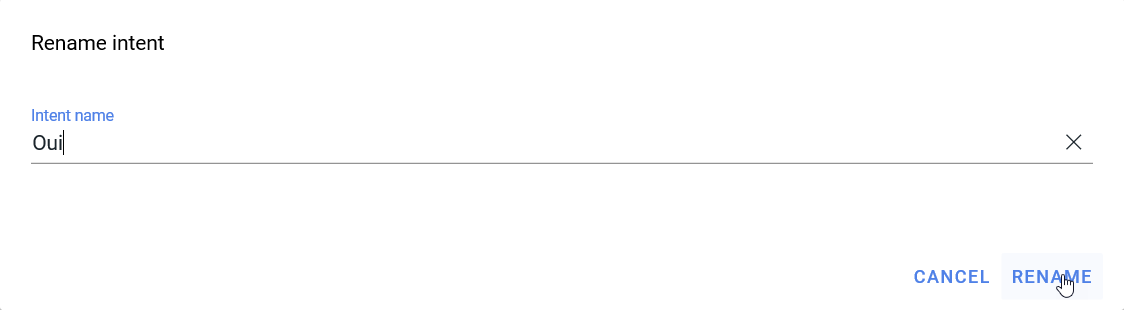
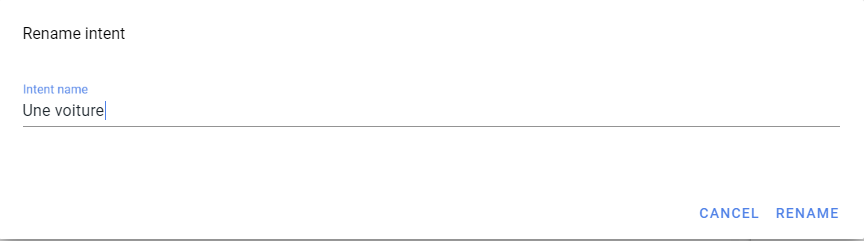
Changed Pizza! to car rental french version

diff --git a/_parametering_examples/fr/fr4.md b/_parametering_examples/fr/fr4.md
@@ -32,7 +32,7 @@ On inscrit dans l'intent les lignes suivantes :
     Bonjour <br> bjr <br>
   {% endEntry %}
   {% Entry type: "Output" %}  
-    Voulez-vous une pizza sucrée? {% MaterialIcon icon: "category" %}{% Chip color: "red", label: "Oui" %}{% MaterialIcon icon: "category" %}{% Chip color: "red", label: "Non" %}{% MaterialIcon icon: "code" %}{% Chip color: "blue", label: "action=sweetyesno" %}
+    Voulez-vous louer une voiture ou un utilitaire? {% MaterialIcon icon: "category" %}{% Chip color: "red", label: "Une voiture" %}{% MaterialIcon icon: "category" %}{% Chip color: "red", label: "Un utiltiaire" %}{% MaterialIcon icon: "code" %}{% Chip color: "blue", label: "action=saisirtypevehicule" %}
   {% endEntry %}
 {% endOplaAppSample %}
 
@@ -41,22 +41,25 @@ On inscrit dans l'intent les lignes suivantes :
 ce qui donne à l'écran :
 
 
-![image]({{site.images_path | relative_url }}voulez-vous-une-pizza-sucree-total.png)
+![image]({{site.images_path | relative_url }}louer-voiture-ou-utilitaire.png)
 
 
 Il faut cliquer sur le signe plus de la ligne et cliquer sur SAVE pour sauvegarder la progression du paramétrage.
 
-![image]({{site.images_path | relative_url }}bonjour-output-sweetyesno-save1.png)
 
 Il faut ensuite cliquer sur "SAVE" en haut dans le cadre des intents
 
 ![image]({{site.images_path | relative_url }}bonjour-save.png)
 
 
-Le texte action = sweetyesno doit être recopié dans la conditionnelle suivante pour lier l'intent #Bonjour à l'intent #Oui suivant. On va suivre la branche des Oui pour enter les deux Outputs contenus dans l'intent #Oui sur la branche de gauche du schéma.
+Le texte action = saisirtypevehicule doit être recopié dans la conditionnelle suivante pour lier l'intent #Bonjour à l'intent suivant.
+
+En l'occurence, deux intents vont être définis ;
+  * #Une voiture
+  * #Un utilitaire
 
 
-Pour ajouter l'intent Oui, cliquer sur le signe plus gris/bleu à droite dans la colonne intents.
+Pour ajouter l'intent suivant, cliquer sur le signe plus gris/bleu à droite dans la colonne intents.
 
 ![image]({{site.images_path | relative_url }}add-an-intent.png)
 
@@ -68,45 +71,43 @@ Puis saisir le nouveau nom,
 
 ![image]({{site.images_path | relative_url }}rename-intent.png)
 
-Ensuite il faut entrer Oui dans la ligne d'inputs et supprimer les outputs éventuellement déjà présents en cliquant sur le moins sur leur ligne.
-
-![image]({{site.images_path | relative_url }}supprimer-outputs.png)
+Ensuite il faut entrer "Une voiture" dans la ligne d'inputs et supprimer les outputs éventuellement déjà présents en cliquant sur le moins sur leur ligne.
 
 
-Ensuite on va entrer le texte des outputs de l'intent Oui :<br>
+
+Ensuite on va entrer le texte des outputs de l'intent Une voiture :<br>
 
 
-{% OplaAppSample title: "Oui" %}
+{% OplaAppSample title: "Une voiture" %}
   {% Entry type : "Input" %}
-    oui
+    Une voiture
   {% endEntry %}
   {% Entry type: "Output" %}  
-  {% Action label: "sweetyesno" %} 
-    Est-ce que vous voulez des pommes? {% MaterialIcon icon: "category" %}{% Chip color: "red", label: "Oui" %}{% MaterialIcon icon: "category" %}{% Chip color: "red", label: "Non" %}{% MaterialIcon icon: "code" %}{% Chip color: "blue", label: "action=pommesyesno" %}
+  {% Action label: "saisirtypevehicule" %} 
+    Sa longueur doit-elle être supérieure à 4m? {% MaterialIcon icon: "category" %}{% Chip color: "red", label: "Oui" %}{% MaterialIcon icon: "category" %}{% Chip color: "red", label: "Non" %}{% MaterialIcon icon: "code" %}{% Chip color: "blue", label: "action=longueursup4mouinon" %}
   {% endEntry %}
 {% endOplaAppSample %}
 
 
 
-![image]({{site.images_path | relative_url }}pommesyesno.png)
 
-
-
-On entre le code action=sweetyesno en cliquant sur la conditionnelle
+On entre le code action=saisirtypevehicule en cliquant sur la conditionnelle
 
 ![image]({{site.images_path | relative_url }}insert-condition.png)
 
-![image]({{site.images_path | relative_url }}action-eg-sweetyesno.png)
-![image]({{site.images_path | relative_url }}pommesyesno-boite.png)
+![image]({{site.images_path | relative_url }}action_saisirtypevehicule.png)
+
 
 
 Ne pas oublier de cliquer sur le signe plus et sur SAVE à la fin de chaque modification d'intent
 
-![image]({{site.images_path | relative_url }}save-pommesyesno.png)
 
 
-Et pour le deuxième output, qui constitue la fin de la chaîne des "Oui"
 
+Et pour le deuxième output, qui constitue la fin de la chaîne ;
+
+
+On va créer un intent #Oui, avec pour input oui et qui aura pour outputs à la fin de cet exercice plusieurs possibilités, mais qui maintenant va contenir :
 
 
 {% OplaAppSample title: "Oui" %}
@@ -114,19 +115,21 @@ Et pour le deuxième output, qui constitue la fin de la chaîne des "Oui"
     oui
   {% endEntry %}
   {% Entry type: "Output" %}  
-  {% Action label: "pommesyesno" %} 
-    C'est parti pour une pizza pommes chocolat!
+  {% Action label: "longueursup4mouinon" %} 
+    Vous souhaitez louer un break
   {% endEntry %}
 {% endOplaAppSample %}
 
 
 
-    
-
-![image]({{site.images_path | relative_url }}pommes-chocolat.png)
 
 
 Après avoir cliqué sur SAVE, vous pouvez faire des tests dans le playground ainsi qu'indiqué sur les captures d'écrans, pour voir si vos enchaînements se passent bien.
 
 
-Félicitations, vous avez écrit votre première branche de schéma conversationnel! Maintenant nous allons rajouter le Non qui conduit à Pizza tout chocolat.
+
+
+
+
+
+Félicitations, vous avez écrit votre première branche de schéma conversationnel! Maintenant nous allons rajouter le Non qui conduit à "vous souhaitez louer une citadine."

diff --git a/_parametering_examples/fr/fr5.md b/_parametering_examples/fr/fr5.md
@@ -5,34 +5,33 @@ ref : 5
 permalink: /exemple_parametrages/step_5
 ---
 
-On va ensuite rajouter le premier Non qui conduit à Pizza tout chocolat :
+On va ensuite rajouter le premier Non qui conduit "Vous souhaitez louer une citadine" :
 
 {% OplaAppSample title: "Non" %}
   {% Entry type : "Input" %}
     non
   {% endEntry %}
   {% Entry type: "Output" %}  
-  {% Action label: "pommesyesno" %} 
-    C'est parti pour une pizza tout chocolat!
+  {% Action label: "longueursup4mouinon" %} 
+    Vous souhaitez louer une citadine.
   {% endEntry %}
 {% endOplaAppSample %}
 
 
 
- ![image]({{site.images_path | relative_url }}tout-chocolat.png)
 
 Ne pas oublier de cliquer sur SAVE avant d'essayer le schéma dans le playground.
 
 Puis nous allons rajouter la branche de droite,
 
 
-{% OplaAppSample title: "Non" %}
+{% OplaAppSample title: "Un utilitaire" %}
   {% Entry type : "Input" %}
-    non
+    Un utilitaire
   {% endEntry %}
   {% Entry type: "Output" %}  
-  {% Action label: "sweetyesno" %} 
-    Voulez-vous des champignons ?  {% MaterialIcon icon: "category" %}{% Chip color: "red", label: "Oui" %}{% MaterialIcon icon: "category" %}{% Chip color: "red", label: "Non" %}{% MaterialIcon icon: "code" %}{% Chip color: "blue", label: "action=mushroomsyesno" %}
+  {% Action label: "saisirtypevehicule" %} 
+    Son volume doit-il être supérieur à 10m3 ?  {% MaterialIcon icon: "category" %}{% Chip color: "red", label: "Oui" %}{% MaterialIcon icon: "category" %}{% Chip color: "red", label: "Non" %}{% MaterialIcon icon: "code" %}{% Chip color: "blue", label: "action=volumesup10m3ouinon" %}
   {% endEntry %}
 {% endOplaAppSample %}
 
@@ -43,8 +42,8 @@ Puis nous allons rajouter la branche de droite,
     oui
   {% endEntry %}
   {% Entry type: "Output" %}  
-  {% Action label: "mushroomsyesno" %} 
-    C'est parti pour une Reine !
+  {% Action label: "volumesup10m3ouinon" %} 
+    Vous souhaitez louer un fourgon.
   {% endEntry %}
 {% endOplaAppSample %}
 
@@ -55,10 +54,22 @@ Puis nous allons rajouter la branche de droite,
     non
   {% endEntry %}
   {% Entry type: "Output" %}  
-  {% Action label: "mushroomsyesno" %} 
-    C'est parti pour une trois fromages! 
+  {% Action label: "volumesup10m3ouinon" %} 
+    Vous souhaitez louer une fourgonnette. 
   {% endEntry %}
 {% endOplaAppSample %}
+
+
+
+
+## Vue générale de l'exercice dans le bot
+
+![image]({{site.images_path | relative_url }}location-voiture-Bonjour.png)
+![image]({{site.images_path | relative_url }}location-voiture-Une-voiture.png)
+![image]({{site.images_path | relative_url }}location-voiture-Un-utilitaire.png)
+![image]({{site.images_path | relative_url }}location-voiture-oui.png)
+![image]({{site.images_path | relative_url }}location-voiture-non.png)
+
 
 
 Et voilà,  votre premier schéma de conversation est paramétré ! Passons maintenant à un exemple suivant, l'exemple de la prise de contact, qui gère des saisies manuelles effectuées par l'utilisateur.

diff --git a/_parametering_examples/fr/fr7.md b/_parametering_examples/fr/fr7.md
@@ -5,11 +5,7 @@ ref : 7
 permalink: /exemple_parametrages/step_7
 ---
 
-On peut tout à fait, et c'est le cas ici, créer deux schémas de conversation dans le même bot. On va créer la conversation "Contact" parallèlement à la conversation "Pizza".
-
-*À noter : Un intent compte souvent un ou deux inputs pour plusieurs outputs différents.*
-
-
+Nous allons paramétrer un bot qui stocke les informations de deux questions : quel est votre numéro de téléphone? quel est votre e-mail? Tout en permettant d'effectuer des correctifs sur les deux valeurs.
 
 
 {% OplaAppSample title: "Contact" %}

diff --git a/_parametering_examples/fr/fr1.md b/_parametering_examples/fr/fr1.md
@@ -35,7 +35,7 @@ La syntaxe du code d'action à saisir sera, en écrivant à l'intérieur du cadr
 </div>
     3. Button :
 
-Permet de créer un bouton qui va être cliquable par l'utilisateur et qui donc va permettre de standadiser les inputs. On peut créer un bouton Oui, Non, ou n'importe quel input souhaité.
+Permet de créer un bouton qui va être cliquable par l'utilisateur et qui donc va permettre de standardiser les inputs. On peut créer un bouton Oui, Non, ou n'importe quel input souhaité.
 
 
 

diff --git a/_parametering_examples/en/en7.md b/_parametering_examples/en/en7.md
@@ -70,7 +70,7 @@ The mention @any in intent #Any is used to collect information not contained in 
 
 {% OplaAppSample title: "" %}
   {% Entry type: "Output" %} 
-   {% MaterialIcon icon: "code" %}{% Chip color: "blue", label: "valeur=*" %}
+   {% MaterialIcon icon: "code" %}{% Chip color: "blue", label: "value=*" %}
   {% endEntry %}
 {% endOplaAppSample %}
 

diff --git a/_parametering_examples/fr/fr3.md b/_parametering_examples/fr/fr3.md
@@ -4,8 +4,8 @@ lang: fr
 ref : 3
 permalink: /exemple_parametrages/step_3
 ---
-## Schéma 1: Pizzas!
+## Schéma 1: Location de véhicule
 
 Nous allons suivre le schéma suivant:
 
-![image]({{site.images_path | relative_url }}image22.png)
+![image]({{site.images_path | relative_url }}location-voiture.png)
